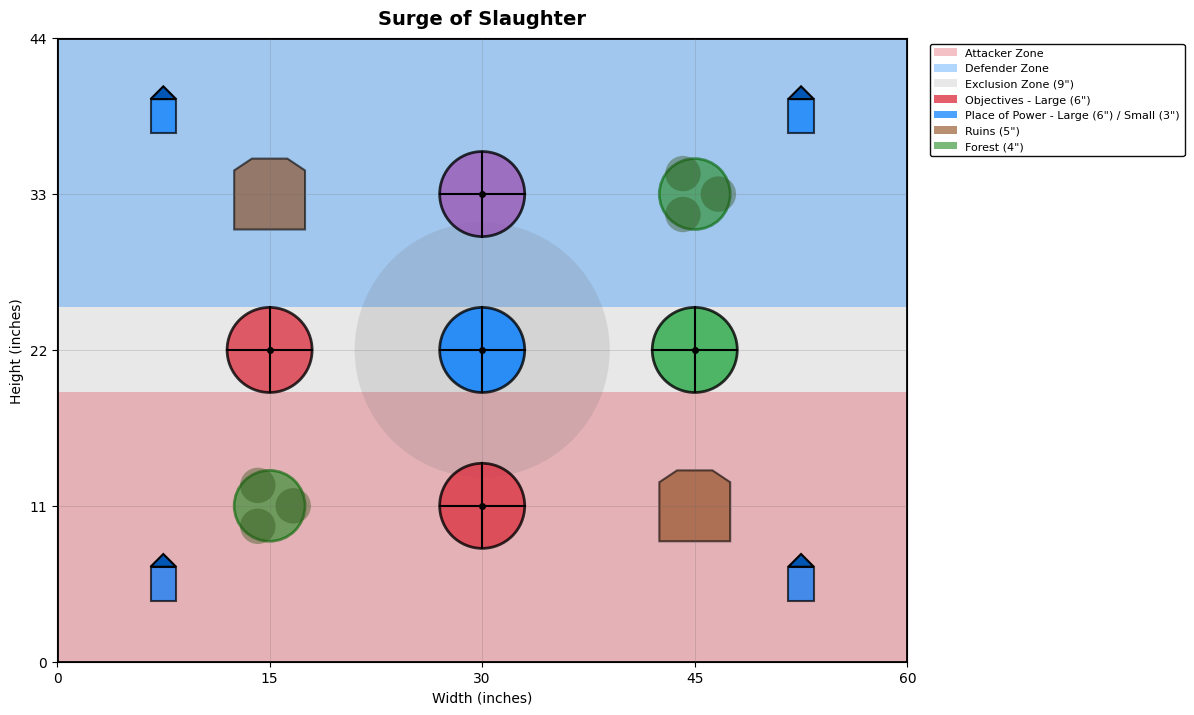
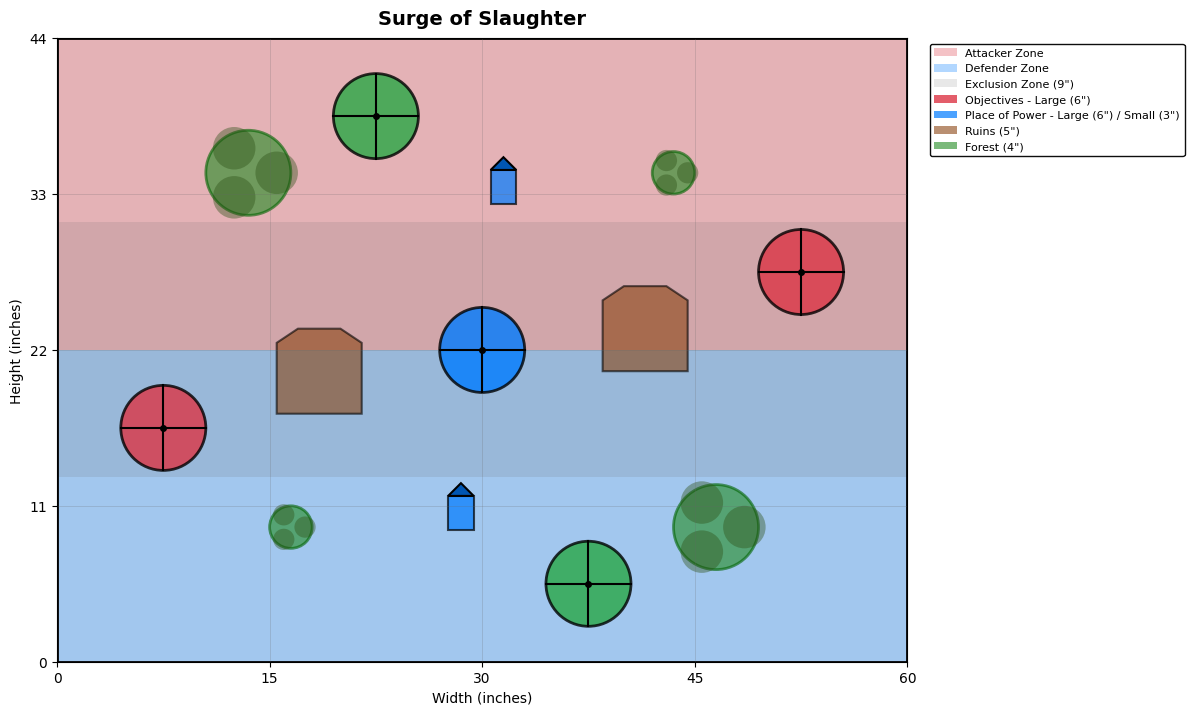
Lock Surge of Slaughter: 5 objectives, 2 large forests, 2 large ruins, 2 small PoP, 2 small forests

diff --git a/battle-plans-demo.html b/battle-plans-demo.html
@@ -56,7 +56,7 @@
     </div>
     <div class="status-summary">
         <div class="status-item">
-            <span class="status-count locked">9</span>
+            <span class="status-count locked">10</span>
             <div class="status-label">LOCKED</div>
         </div>
         <div class="status-item">
@@ -64,7 +64,7 @@
             <div class="status-label">IN PROGRESS</div>
         </div>
         <div class="status-item">
-            <span class="status-count remaining">2</span>
+            <span class="status-count remaining">1</span>
             <div class="status-label">REMAINING</div>
         </div>
     </div>
@@ -73,50 +73,50 @@
             <div class="card">
                 <div class="card-header">
                     <div class="mission-num">Mission 1 of 12</div>
-                    <h2>Roiling Roots</h2>
+                    <h2>Surge of Slaughter</h2>
                 </div>
                 <div class="grid4">
                     <div class="col">
                         <h3><span class="badge badge-waha">WAHAPEDIA</span></h3>
                         <div class="img-box">
-                            <img src="assets/battle-plans/aos-roiling-roots.png" alt="Roiling Roots Wahapedia">
+                            <img src="assets/battle-plans/aos-surge-of-slaughter.png" alt="Surge of Slaughter Wahapedia">
                             <div class="img-label">Original Source</div>
                         </div>
                     </div>
                     <div class="col">
                         <h3><span class="badge badge-aoi">AGE OF INDEX</span></h3>
                         <div class="img-box">
-                            <img src="assets/battle-plans-ageofindex/aos-roiling-roots.png" alt="Roiling Roots AOI">
+                            <img src="assets/battle-plans-ageofindex/aos-surge-of-slaughter.png" alt="Surge of Slaughter AOI">
                             <div class="img-label">ageofindex.com</div>
                         </div>
                     </div>
                     <div class="col">
                         <h3><span class="badge badge-matplot">MATPLOTLIB</span></h3>
                         <div class="img-box">
-                            <img src="assets/battle-plans-matplotlib/aos-roiling-roots-matplotlib.png" alt="Roiling Roots Generated">
+                            <img src="assets/battle-plans-matplotlib/aos-surge-of-slaughter-matplotlib.png" alt="Surge of Slaughter Generated">
                             <div class="img-label">Generated Diagram</div>
                         </div>
                     </div>
                     <div class="col">
                         <h3><span class="badge badge-elem">BATTLEFIELD ELEMENTS</span></h3>
                         <div class="elem-list">
-                            <div class="elem-item zone-item"><span class="elem-type">Deployment zone</span> Red Top Zone<div class="zone-coords">(0", 33") → (60", 33") → (60", 44") → (0", 44")</div></div>
-                                <div class="elem-item zone-item"><span class="elem-type">Deployment zone</span> Blue Bottom Zone<div class="zone-coords">(0", 0") → (60", 0") → (60", 11") → (0", 11")</div></div>
-                                <div class="elem-item zone-item"><span class="elem-type">Deployment zone</span> Neutral Zone<div class="zone-coords">(0", 11") → (60", 11") → (60", 33") → (0", 33")</div></div>
-                                <div class="elem-item"><span class="elem-type">Objective</span> <span class="color-badge color-purple"></span>Purple G3 (large)<span class="coords">(37.5", 38.5")</span></div>
-                                <div class="elem-item"><span class="elem-type">Objective</span> <span class="color-badge color-green"></span>Green G6 (large)<span class="coords">(22.5", 27.5")</span></div>
+                            <div class="elem-item zone-item"><span class="elem-type">Deployment zone</span> Red Top Zone<div class="zone-coords">(0", 22") → (60", 22") → (60", 44") → (0", 44")</div></div>
+                                <div class="elem-item zone-item"><span class="elem-type">Deployment zone</span> Blue Bottom Zone<div class="zone-coords">(0", 0") → (60", 0") → (60", 22") → (0", 22")</div></div>
+                                <div class="elem-item zone-item"><span class="elem-type">Exclusion zone</span> 9" from blue edge<div class="zone-coords">(0", 13") → (60", 13") → (60", 22") → (0", 22")</div></div>
+                                <div class="elem-item zone-item"><span class="elem-type">Exclusion zone</span> 9" from red edge<div class="zone-coords">(0", 22") → (60", 22") → (60", 31") → (0", 31")</div></div>
+                                <div class="elem-item"><span class="elem-type">Objective</span> <span class="color-badge color-blue"></span>Blue Center (large)<span class="coords">(30", 22")</span></div>
+                                <div class="elem-item"><span class="elem-type">Objective</span> <span class="color-badge color-green"></span>Green G2 (large)<span class="coords">(22.5", 38.5")</span></div>
+                                <div class="elem-item"><span class="elem-type">Objective</span> <span class="color-badge color-green"></span>Green G15 (large)<span class="coords">(37.5", 5.5")</span></div>
                                 <div class="elem-item"><span class="elem-type">Objective</span> <span class="color-badge color-red"></span>Red G8 (large)<span class="coords">(52.5", 27.5")</span></div>
                                 <div class="elem-item"><span class="elem-type">Objective</span> <span class="color-badge color-red"></span>Red G9 (large)<span class="coords">(7.5", 16.5")</span></div>
-                                <div class="elem-item"><span class="elem-type">Objective</span> <span class="color-badge color-green"></span>Green G11 (large)<span class="coords">(37.5", 16.5")</span></div>
-                                <div class="elem-item"><span class="elem-type">Objective</span> <span class="color-badge color-blue"></span>Blue G14 (large)<span class="coords">(22.5", 5.5")</span></div>
-                                <div class="elem-item"><span class="elem-type">Ruins</span> Ruins G7 (large)<span class="coords">(37.5", 27.5")</span></div>
-                                <div class="elem-item"><span class="elem-type">Ruins</span> Ruins G10 (large)<span class="coords">(22.5", 16.5")</span></div>
-                                <div class="elem-item"><span class="elem-type">Place of power</span> PoP G4 (small)<span class="coords">(52.5", 36.5")</span></div>
-                                <div class="elem-item"><span class="elem-type">Place of power</span> PoP G13 (small)<span class="coords">(7.5", 7.5")</span></div>
-                                <div class="elem-item"><span class="elem-type">Forest</span> Forest G1/G2 (large)<span class="coords">(15", 34.5")</span></div>
-                                <div class="elem-item"><span class="elem-type">Forest</span> Forest G15/G16 (large)<span class="coords">(45", 9.5")</span></div>
-                                <div class="elem-item"><span class="elem-type">Ruins</span> Ruins G5 (small)<span class="coords">(9.5", 25.5")</span></div>
-                                <div class="elem-item"><span class="elem-type">Ruins</span> Ruins G12 (small)<span class="coords">(50.5", 18.5")</span></div>
+                                <div class="elem-item"><span class="elem-type">Forest</span> Forest NW (large)<span class="coords">(13.5", 34.5")</span></div>
+                                <div class="elem-item"><span class="elem-type">Forest</span> Forest SE (large)<span class="coords">(46.5", 9.5")</span></div>
+                                <div class="elem-item"><span class="elem-type">Ruins</span> Ruins G7 (large)<span class="coords">(41.5", 23.5")</span></div>
+                                <div class="elem-item"><span class="elem-type">Ruins</span> Ruins G10 (large)<span class="coords">(18.5", 20.5")</span></div>
+                                <div class="elem-item"><span class="elem-type">Place of power</span> PoP G3 (small)<span class="coords">(31.5", 33.5")</span></div>
+                                <div class="elem-item"><span class="elem-type">Place of power</span> PoP G14 (small)<span class="coords">(28.5", 10.5")</span></div>
+                                <div class="elem-item"><span class="elem-type">Forest</span> Forest G3 (small)<span class="coords">(43.5", 34.5")</span></div>
+                                <div class="elem-item"><span class="elem-type">Forest</span> Forest G14 (small)<span class="coords">(16.5", 9.5")</span></div>
                         </div>
                     </div>
                 </div>
@@ -581,49 +581,50 @@
             <div class="card">
                 <div class="card-header">
                     <div class="mission-num">Mission 11 of 12</div>
-                    <h2>Surge of Slaughter</h2>
+                    <h2>Roiling Roots <span style="color: #28a745; font-weight: bold;">[LOCKED]</span></h2>
                 </div>
                 <div class="grid4">
                     <div class="col">
                         <h3><span class="badge badge-waha">WAHAPEDIA</span></h3>
                         <div class="img-box">
-                            <img src="assets/battle-plans/aos-surge-of-slaughter.png" alt="Surge of Slaughter Wahapedia">
+                            <img src="assets/battle-plans/aos-roiling-roots.png" alt="Roiling Roots Wahapedia">
                             <div class="img-label">Original Source</div>
                         </div>
                     </div>
                     <div class="col">
                         <h3><span class="badge badge-aoi">AGE OF INDEX</span></h3>
                         <div class="img-box">
-                            <img src="assets/battle-plans-ageofindex/aos-surge-of-slaughter.png" alt="Surge of Slaughter AOI">
+                            <img src="assets/battle-plans-ageofindex/aos-roiling-roots.png" alt="Roiling Roots AOI">
                             <div class="img-label">ageofindex.com</div>
                         </div>
                     </div>
                     <div class="col">
                         <h3><span class="badge badge-matplot">MATPLOTLIB</span></h3>
                         <div class="img-box">
-                            <img src="assets/battle-plans-matplotlib/aos-surge-of-slaughter-matplotlib.png" alt="Surge of Slaughter Generated">
+                            <img src="assets/battle-plans-matplotlib/aos-roiling-roots-matplotlib.png" alt="Roiling Roots Generated">
                             <div class="img-label">Generated Diagram</div>
                         </div>
                     </div>
                     <div class="col">
                         <h3><span class="badge badge-elem">BATTLEFIELD ELEMENTS</span></h3>
                         <div class="elem-list">
-                            <div class="elem-item zone-item"><span class="elem-type">Deployment zone</span> Attacker Zone<div class="zone-coords">(0", 0") → (60", 0") → (60", 19") → (0", 19")</div></div>
-                                <div class="elem-item zone-item"><span class="elem-type">Deployment zone</span> Defender Zone<div class="zone-coords">(0", 25") → (60", 25") → (60", 44") → (0", 44")</div></div>
-                                <div class="elem-item"><span class="elem-type">Exclusion zone</span> 9" from center point <span class="coords">Center: (30", 22"), Radius: 9"</span></div>
-                                <div class="elem-item"><span class="elem-type">Objective</span> <span class="color-badge color-red"></span>West (large)<span class="coords">(15", 22")</span></div>
-                                <div class="elem-item"><span class="elem-type">Objective</span> <span class="color-badge color-blue"></span>Center (large)<span class="coords">(30", 22")</span></div>
-                                <div class="elem-item"><span class="elem-type">Objective</span> <span class="color-badge color-green"></span>East (large)<span class="coords">(45", 22")</span></div>
-                                <div class="elem-item"><span class="elem-type">Objective</span> <span class="color-badge color-purple"></span>North (large)<span class="coords">(30", 33")</span></div>
-                                <div class="elem-item"><span class="elem-type">Objective</span> <span class="color-badge color-red"></span>South (large)<span class="coords">(30", 11")</span></div>
-                                <div class="elem-item"><span class="elem-type">Place of power</span> Place of Power NW (small)<span class="coords">(7.5", 38.5")</span></div>
-                                <div class="elem-item"><span class="elem-type">Place of power</span> Place of Power NE (small)<span class="coords">(52.5", 38.5")</span></div>
-                                <div class="elem-item"><span class="elem-type">Place of power</span> Place of Power SW (small)<span class="coords">(7.5", 5.5")</span></div>
-                                <div class="elem-item"><span class="elem-type">Place of power</span> Place of Power SE (small)<span class="coords">(52.5", 5.5")</span></div>
-                                <div class="elem-item"><span class="elem-type">Ruins</span> Ruins NW <span class="coords">(15", 33")</span></div>
-                                <div class="elem-item"><span class="elem-type">Ruins</span> Ruins SE <span class="coords">(45", 11")</span></div>
-                                <div class="elem-item"><span class="elem-type">Forest</span> Forest NE <span class="coords">(45", 33")</span></div>
-                                <div class="elem-item"><span class="elem-type">Forest</span> Forest SW <span class="coords">(15", 11")</span></div>
+                            <div class="elem-item zone-item"><span class="elem-type">Deployment zone</span> Red Top Zone<div class="zone-coords">(0", 33") → (60", 33") → (60", 44") → (0", 44")</div></div>
+                                <div class="elem-item zone-item"><span class="elem-type">Deployment zone</span> Blue Bottom Zone<div class="zone-coords">(0", 0") → (60", 0") → (60", 11") → (0", 11")</div></div>
+                                <div class="elem-item zone-item"><span class="elem-type">Deployment zone</span> Neutral Zone<div class="zone-coords">(0", 11") → (60", 11") → (60", 33") → (0", 33")</div></div>
+                                <div class="elem-item"><span class="elem-type">Objective</span> <span class="color-badge color-purple"></span>Purple G3 (large)<span class="coords">(37.5", 38.5")</span></div>
+                                <div class="elem-item"><span class="elem-type">Objective</span> <span class="color-badge color-green"></span>Green G6 (large)<span class="coords">(22.5", 27.5")</span></div>
+                                <div class="elem-item"><span class="elem-type">Objective</span> <span class="color-badge color-red"></span>Red G8 (large)<span class="coords">(52.5", 27.5")</span></div>
+                                <div class="elem-item"><span class="elem-type">Objective</span> <span class="color-badge color-red"></span>Red G9 (large)<span class="coords">(7.5", 16.5")</span></div>
+                                <div class="elem-item"><span class="elem-type">Objective</span> <span class="color-badge color-green"></span>Green G11 (large)<span class="coords">(37.5", 16.5")</span></div>
+                                <div class="elem-item"><span class="elem-type">Objective</span> <span class="color-badge color-blue"></span>Blue G14 (large)<span class="coords">(22.5", 5.5")</span></div>
+                                <div class="elem-item"><span class="elem-type">Ruins</span> Ruins G7 (large)<span class="coords">(37.5", 27.5")</span></div>
+                                <div class="elem-item"><span class="elem-type">Ruins</span> Ruins G10 (large)<span class="coords">(22.5", 16.5")</span></div>
+                                <div class="elem-item"><span class="elem-type">Place of power</span> PoP G4 (small)<span class="coords">(52.5", 36.5")</span></div>
+                                <div class="elem-item"><span class="elem-type">Place of power</span> PoP G13 (small)<span class="coords">(7.5", 7.5")</span></div>
+                                <div class="elem-item"><span class="elem-type">Forest</span> Forest G1/G2 (large)<span class="coords">(15", 34.5")</span></div>
+                                <div class="elem-item"><span class="elem-type">Forest</span> Forest G15/G16 (large)<span class="coords">(45", 9.5")</span></div>
+                                <div class="elem-item"><span class="elem-type">Ruins</span> Ruins G5 (small)<span class="coords">(9.5", 25.5")</span></div>
+                                <div class="elem-item"><span class="elem-type">Ruins</span> Ruins G12 (small)<span class="coords">(50.5", 18.5")</span></div>
                         </div>
                     </div>
                 </div>

diff --git a/scripts/extract_mission_objects.py b/scripts/extract_mission_objects.py
@@ -287,28 +287,29 @@ MISSIONS = {
     "aos-surge-of-slaughter": {
         "name": "Surge of Slaughter",
         "deployment_zones": [
-            {"player": "Attacker", "color": "#dc3545", "alpha": 0.3, "coords": [(0, 0), (60, 0), (60, 19), (0, 19)]},
-            {"player": "Defender", "color": "#007bff", "alpha": 0.3, "coords": [(0, 25), (60, 25), (60, 44), (0, 44)]},
+            {"player": "Red Top", "color": "#dc3545", "alpha": 0.3, "coords": [(0, 22), (60, 22), (60, 44), (0, 44)]},
+            {"player": "Blue Bottom", "color": "#007bff", "alpha": 0.3, "coords": [(0, 0), (60, 0), (60, 22), (0, 22)]},
         ],
         "exclusion_zones": [
-            {"type": "circle", "center": (30, 22), "radius": 9, "color": "#666666", "alpha": 0.15, "note": "9\" from center point"},
+            {"type": "rect", "coords": [(0, 13), (60, 13), (60, 22), (0, 22)], "color": "#666666", "alpha": 0.15, "note": "9\" from blue edge"},
+            {"type": "rect", "coords": [(0, 22), (60, 22), (60, 31), (0, 31)], "color": "#666666", "alpha": 0.15, "note": "9\" from red edge"},
         ],
         "objectives": [
-            {"name": "West", "x": 15, "y": 22, "color": "red", "type": "objective", "size": "large"},
-            {"name": "Center", "x": 30, "y": 22, "color": "blue", "type": "objective", "size": "large"},
-            {"name": "East", "x": 45, "y": 22, "color": "green", "type": "objective", "size": "large"},
-            {"name": "North", "x": 30, "y": 33, "color": "purple", "type": "objective", "size": "large"},
-            {"name": "South", "x": 30, "y": 11, "color": "red", "type": "objective", "size": "large"},
+            {"name": "Blue Center", "x": 30, "y": 22, "color": "blue", "type": "objective", "size": "large"},
+            {"name": "Green G2", "x": 22.5, "y": 38.5, "color": "green", "type": "objective", "size": "large"},
+            {"name": "Green G15", "x": 37.5, "y": 5.5, "color": "green", "type": "objective", "size": "large"},
+            {"name": "Red G8", "x": 52.5, "y": 27.5, "color": "red", "type": "objective", "size": "large"},
+            {"name": "Red G9", "x": 7.5, "y": 16.5, "color": "red", "type": "objective", "size": "large"},
         ],
         "terrain": [
-            {"name": "Place of Power NW", "x": 7.5, "y": 38.5, "type": "place_of_power", "size": "small"},
-            {"name": "Place of Power NE", "x": 52.5, "y": 38.5, "type": "place_of_power", "size": "small"},
-            {"name": "Place of Power SW", "x": 7.5, "y": 5.5, "type": "place_of_power", "size": "small"},
-            {"name": "Place of Power SE", "x": 52.5, "y": 5.5, "type": "place_of_power", "size": "small"},
-            {"name": "Ruins NW", "x": 15, "y": 33, "type": "ruins"},
-            {"name": "Ruins SE", "x": 45, "y": 11, "type": "ruins"},
-            {"name": "Forest NE", "x": 45, "y": 33, "type": "forest"},
-            {"name": "Forest SW", "x": 15, "y": 11, "type": "forest"},
+            {"name": "Forest NW", "x": 13.5, "y": 34.5, "type": "forest", "size": "large"},
+            {"name": "Forest SE", "x": 46.5, "y": 9.5, "type": "forest", "size": "large"},
+            {"name": "Ruins G7", "x": 41.5, "y": 23.5, "type": "ruins", "size": "large"},
+            {"name": "Ruins G10", "x": 18.5, "y": 20.5, "type": "ruins", "size": "large"},
+            {"name": "PoP G3", "x": 31.5, "y": 33.5, "type": "place_of_power", "size": "small"},
+            {"name": "PoP G14", "x": 28.5, "y": 10.5, "type": "place_of_power", "size": "small"},
+            {"name": "Forest G3", "x": 43.5, "y": 34.5, "type": "forest", "size": "small"},
+            {"name": "Forest G14", "x": 16.5, "y": 9.5, "type": "forest", "size": "small"},
         ]
     },
     "aos-the-liferoots": {

diff --git a/scripts/build_demo_fixed.py b/scripts/build_demo_fixed.py
@@ -5,7 +5,7 @@ import subprocess
 from extract_mission_objects import MISSIONS as MISSION_DATA
 
 # Current mission being worked on (shows first in gallery)
-CURRENT_MISSION = "aos-roiling-roots"
+CURRENT_MISSION = "aos-surge-of-slaughter"
 
 # Locked missions (completed and verified)
 LOCKED_MISSIONS = [
@@ -18,6 +18,7 @@ LOCKED_MISSIONS = [
     "aos-linked-ley-lines",
     "aos-noxious-nexus",
     "aos-paths-of-the-fey",
+    "aos-roiling-roots",
 ]
 
 # Convert MISSIONS dict to list format for template
